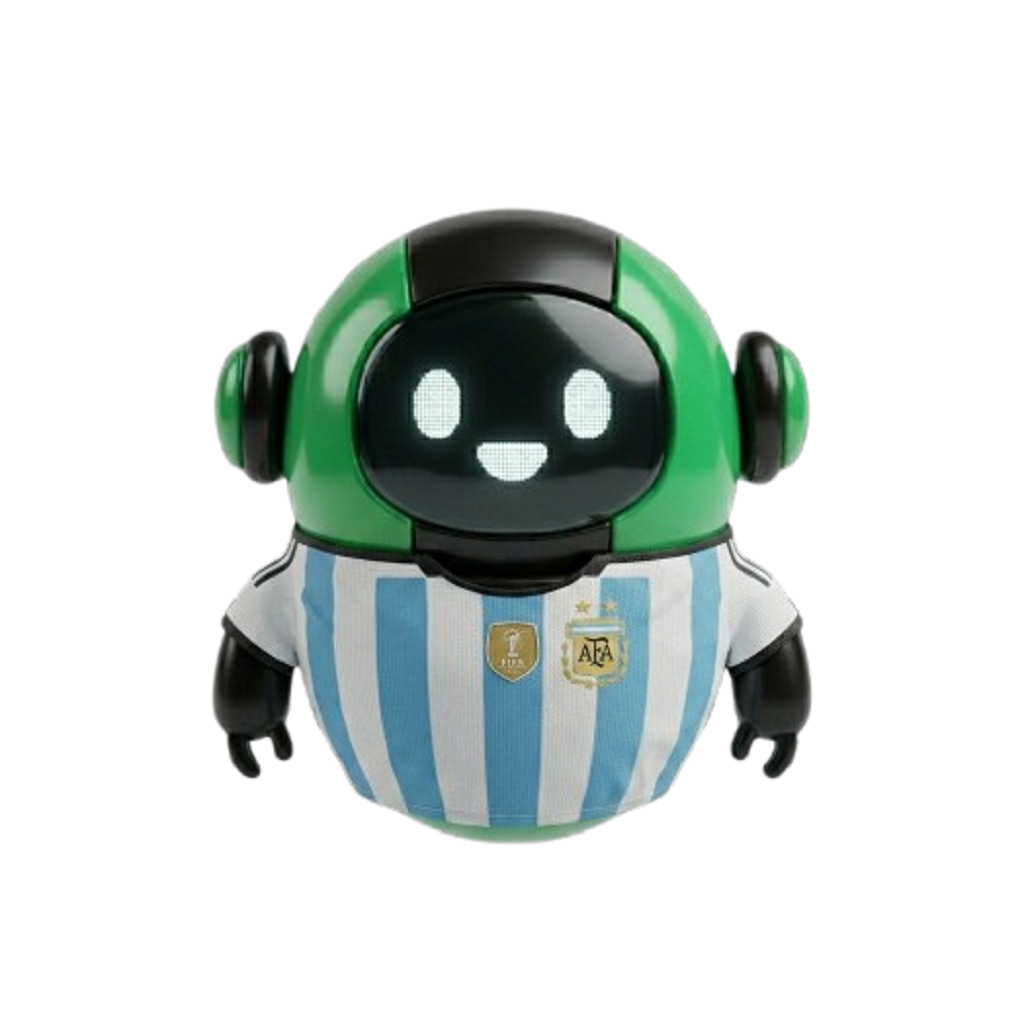
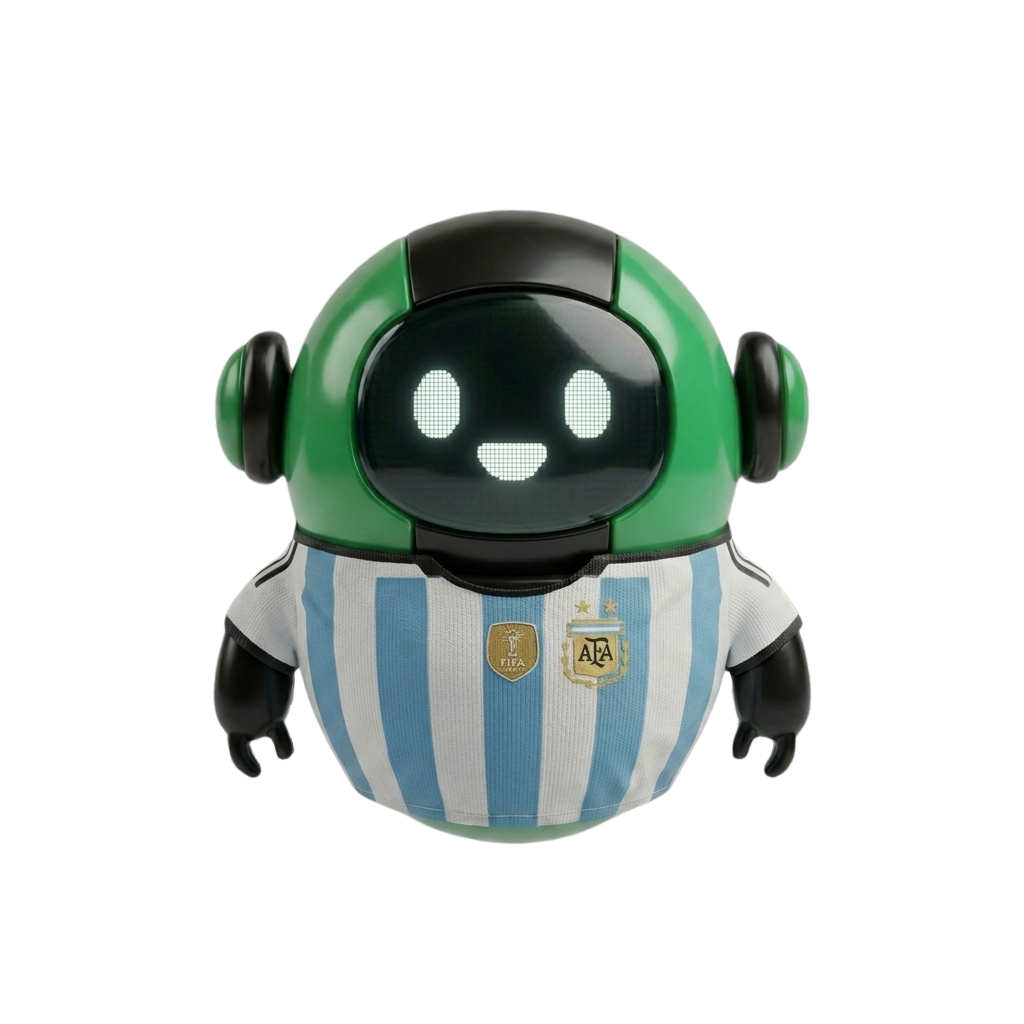
Fondo Trasparente

diff --git a/scripts/remove_bg.py b/scripts/remove_bg.py
@@ -1,0 +1,65 @@
+from PIL import Image, ImageDraw
+import numpy as np
+from collections import deque
+
+def color_distance(c1, c2):
+    """Distancia euclidiana entre dos colores RGB."""
+    return ((int(c1[0])-int(c2[0]))**2 + (int(c1[1])-int(c2[1]))**2 + (int(c1[2])-int(c2[2]))**2) ** 0.5
+
+def remove_background(path, tolerance=35):
+    img = Image.open(path).convert('RGBA')
+    w, h = img.size
+    data = np.array(img, dtype=np.uint8)
+    rgb = data[:, :, :3]
+
+    visited = np.zeros((h, w), dtype=bool)
+    mask = np.zeros((h, w), dtype=bool)
+
+    # Puntos semilla: 4 esquinas + midpoints de cada borde
+    seeds = [
+        (0, 0), (0, w-1), (h-1, 0), (h-1, w-1),
+        (0, w//2), (h-1, w//2), (h//2, 0), (h//2, w-1),
+    ]
+
+    # Recolectar colores de referencia del fondo desde las semillas
+    bg_colors = []
+    for r, c in seeds:
+        bg_colors.append(rgb[r, c].tolist())
+
+    queue = deque()
+    for r, c in seeds:
+        if not visited[r, c]:
+            visited[r, c] = True
+            queue.append((r, c))
+            mask[r, c] = True
+
+    while queue:
+        r, c = queue.popleft()
+        px = rgb[r, c].tolist()
+        for dr, dc in [(-1,0),(1,0),(0,-1),(0,1)]:
+            nr, nc = r+dr, c+dc
+            if 0 <= nr < h and 0 <= nc < w and not visited[nr, nc]:
+                npx = rgb[nr, nc].tolist()
+                # Aceptar si es similar a algún color de fondo conocido
+                if any(color_distance(npx, bg) <= tolerance for bg in bg_colors):
+                    visited[nr, nc] = True
+                    mask[nr, nc] = True
+                    # Agregar color del nuevo píxel al modelo si es suficientemente diferente
+                    if all(color_distance(npx, bg) > tolerance*0.3 for bg in bg_colors):
+                        bg_colors.append(npx)
+                        if len(bg_colors) > 50:
+                            bg_colors.pop(0)
+                    queue.append((nr, nc))
+
+    data[mask, 3] = 0
+    result = Image.fromarray(data)
+    result.save(path)
+    removed = int(mask.sum())
+    total = w * h
+    name = path.replace('\\', '/').split('/')[-1]
+    print(f'{name}: eliminados {removed} px ({removed*100//total}%)')
+
+base = 'c:/APPs/SplitSmart-APP/assets/splitsmart/'
+for f in ['Splitty_AR.png', 'Splitty_PT.png', 'Splitty_US.png']:
+    remove_background(base + f, tolerance=35)
+    print('  OK')
